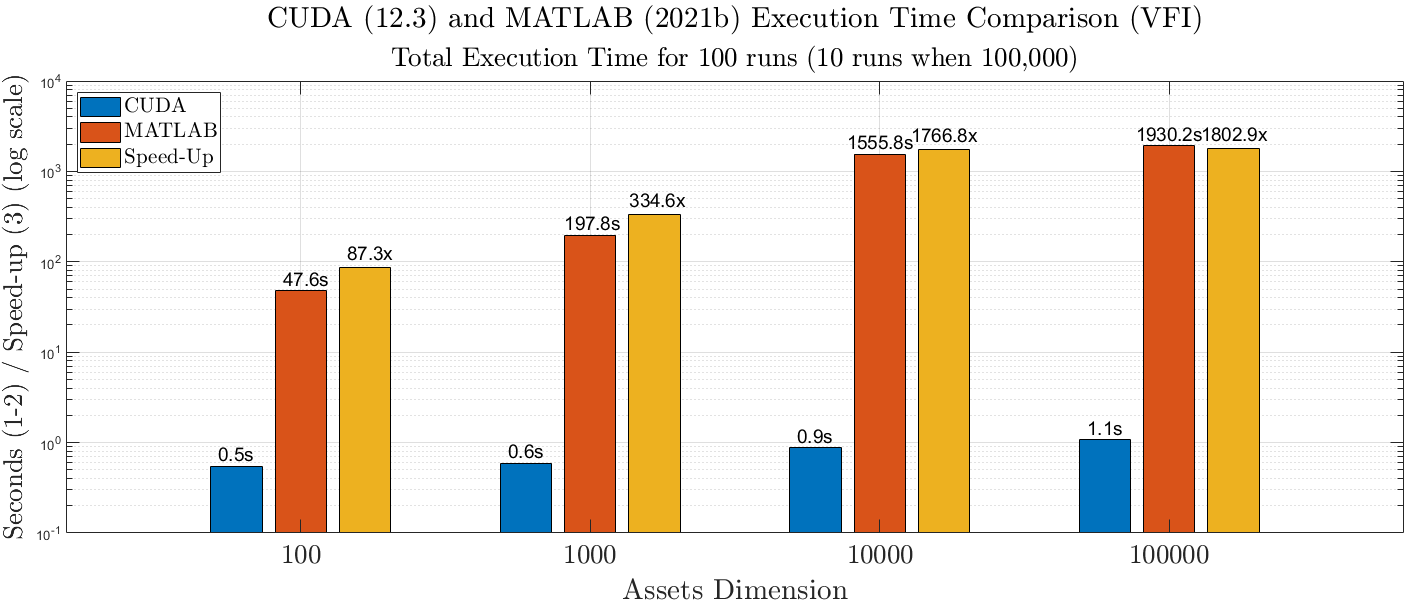
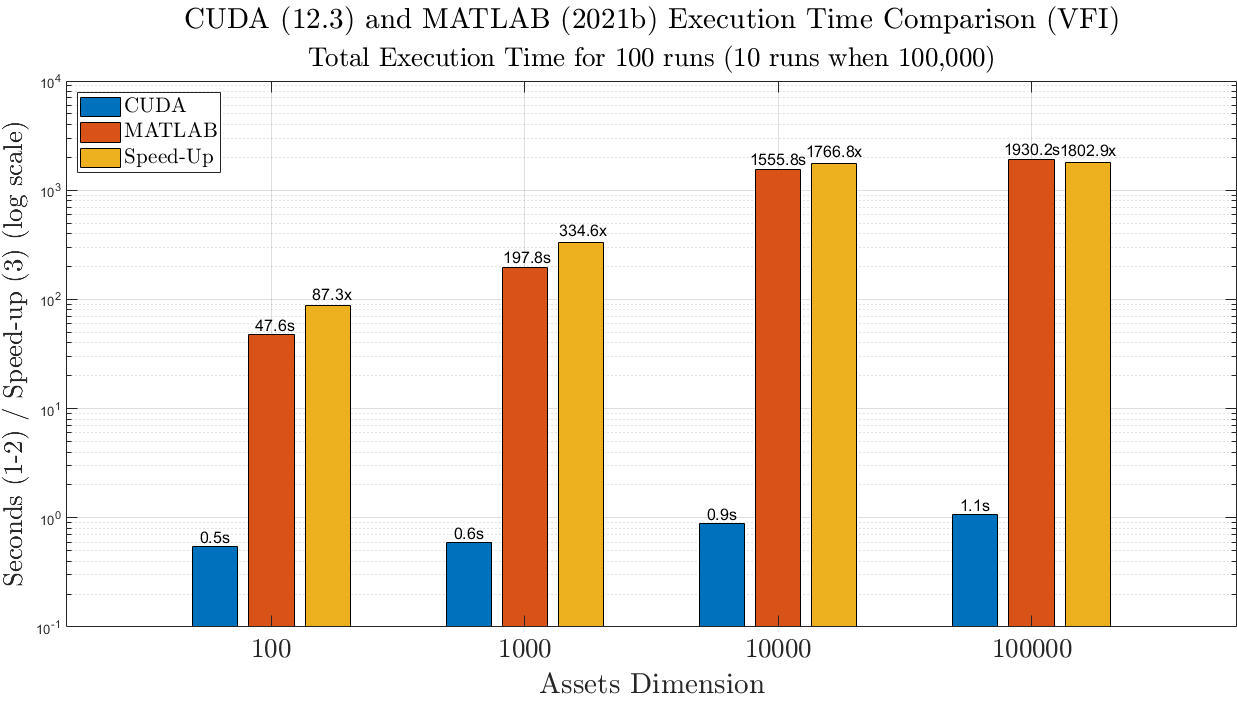
update figure

diff --git a/MATLAB/timings_plot.m b/MATLAB/timings_plot.m
@@ -39,8 +39,8 @@ for i = 1:numel(b)
     yval = b(i).YData;
     xval = b(i).XEndPoints;
     if i <= 2
-        text(xval, yval, strcat(num2str(yval', '%.1f'), 's'), 'VerticalAlignment', 'bottom', 'HorizontalAlignment', 'center', 'FontSize', 14);
+        text(xval, yval, strcat(num2str(yval', '%.1f'), 's'), 'VerticalAlignment', 'bottom', 'HorizontalAlignment', 'center', 'FontSize', 12);
     else
-        text(xval, yval + 0.05*yval, strcat(num2str(yval', '%.1f'), 'x'), 'VerticalAlignment', 'bottom', 'HorizontalAlignment', 'center', 'FontSize', 14);
+        text(xval, yval + 0.05*yval, strcat(num2str(yval', '%.1f'), 'x'), 'VerticalAlignment', 'bottom', 'HorizontalAlignment', 'center', 'FontSize', 12);
     end
 end
